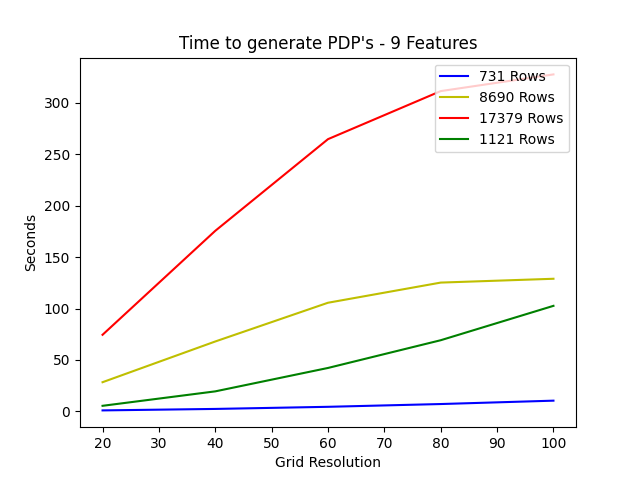
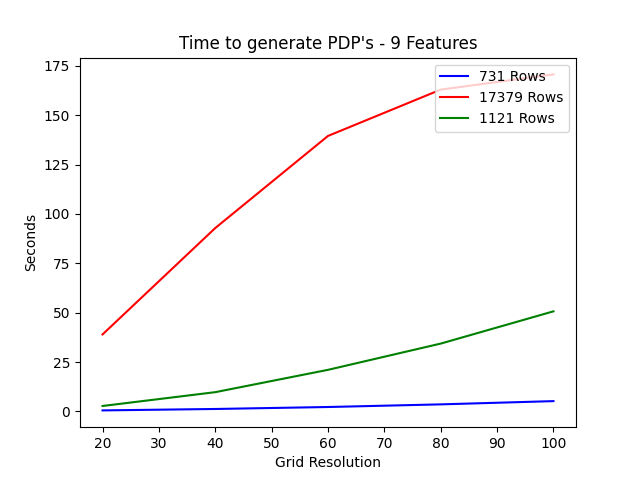
fix number of pdp's generated

diff --git a/timer_tools/time_generation.py b/timer_tools/time_generation.py
@@ -1,21 +1,23 @@
 #!/usr/bin/env python
-from functools import total_ordering
+import itertools
 import time
-from sklearn.ensemble import RandomForestRegressor
-from sklearn.inspection import partial_dependence
 from dataset_info import DATASETS
 import pandas as pd
 from typing import Tuple, List
-
+from multiprocessing import Pool
+from sklearn.ensemble import RandomForestRegressor
+from sklearn.inspection import partial_dependence
 
 # Keys for the datasets you want run in dataset_info.py
 DATASETS_TO_RUN = [
     "home_data_train",
-    "bike_sharing_day",
+    # "bike_sharing_day",
     "bike_sharing_hour"
 ]
 # The step for number of features to test per run
 FEATURES_STEP = 3
+# The method to be used for pdp generation
+PDP_METHOD = "partial_grid_res"
 # The name for the file to export the generated times
 EXPORT_CSV_FILE = "pdp_gen_times.csv"
 # The percentage of the full dataset to use. I.e. .5 = 50%
@@ -30,6 +32,17 @@ METRICS_COLUMNS = [
     "pdp_method"
 ]
 
+def calculate_pdp(
+    first_feature: int,
+    second_feature: int,
+    model: any,
+    data_x: pd.DataFrame,
+    grid_res: float = 100.0
+):
+    if first_feature == second_feature:
+        partial_dependence(model, data_x, [first_feature], kind='average', grid_resolution=grid_res)
+    else:
+        partial_dependence(model, data_x, [(first_feature, second_feature)], kind='average', grid_resolution=grid_res)
 
 def load_data(
     data_path: str, features: List[str], target: str
@@ -68,30 +81,53 @@ def run():
 
         # Generate PDP's and time
         for num_features in range(1, len(data_info["features"])):
-            if num_features % FEATURES_STEP == 0 or num_features == len(data_info["features"]):
-                for grid_res in [20, 40, 60, 80, 100]:
-                    print(f"Processing {num_features} features with grid resolution of {grid_res}.")
-                    start_time = time.time()
-                    pdps_generated = 0
+            if (num_features % FEATURES_STEP == 0) or num_features == len(data_info["features"]):
+                if PDP_METHOD == "parallelization":
+                    pdp_args = []
                     for first_feature in range(num_features):
                         for second_feature in range(num_features):
-                            pdps_generated += 1
-                            if first_feature == second_feature:
-                                partial_dependence(model, data_x, [tuple(first_feature)], kind='average', grid_resolution=grid_res)
-                            else:
-                                partial_dependence(model, data_x, [tuple(first_feature, second_feature)], kind='average', grid_resolution=grid_res)
+                            pdp_args.append((first_feature, second_feature, model, data_x))
+                    start_time = time.time()  
+                    # with Pool(5) as pool:
+                    #     print(type(pdp_args[0][3]))
+                    #     pool.starmap(func=calculate_pdp, iterable=tuple(pdp_args))
                     total_time = time.time() - start_time
-                    # TODO: Add sampling of dataset / percentage of dataset being used
                     new_row = {
                         "dataset": data_info["data_path"],
                         "num_rows": data_x.shape[0],
                         "features": num_features,
-                        "grid_resolution": grid_res,
-                        "num_pdps_generated": pdps_generated,
+                        "grid_resolution": 100.0,
+                        "num_pdps_generated": len(pdp_args),
                         "time_in_seconds": total_time,
-                        "pdp_method": "half_grid_resolution"
+                        "pdp_method": PDP_METHOD
                     }
                     to_save = to_save.append(new_row, ignore_index=True)
+                    
+                elif PDP_METHOD == "partial_grid_res":
+                    for grid_res in [20, 40, 60, 80, 100]:
+                        print(f"Processing {num_features} features with grid resolution of {grid_res}.")
+                        start_time = time.time()
+                        pdps_generated = 0
+                        for combo in itertools.combinations_with_replacement(range(num_features), 2):
+                            pdps_generated += 1
+                            calculate_pdp(
+                                first_feature=combo[0], 
+                                second_feature=combo[1],
+                                model=model,
+                                data_x=data_x,
+                                grid_res=grid_res
+                            )
+                        total_time = time.time() - start_time
+                        new_row = {
+                            "dataset": data_info["data_path"],
+                            "num_rows": data_x.shape[0],
+                            "features": num_features,
+                            "grid_resolution": grid_res,
+                            "num_pdps_generated": pdps_generated,
+                            "time_in_seconds": total_time,
+                            "pdp_method": PDP_METHOD
+                        }
+                        to_save = to_save.append(new_row, ignore_index=True)
     
     # Append the new data to the file
     previous_data = pd.read_csv(EXPORT_CSV_FILE)
